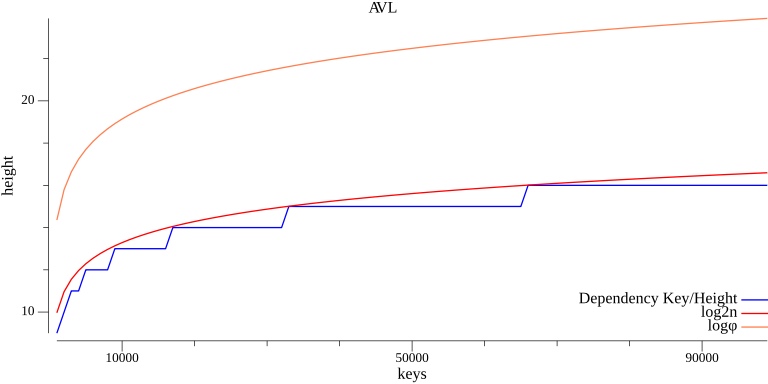
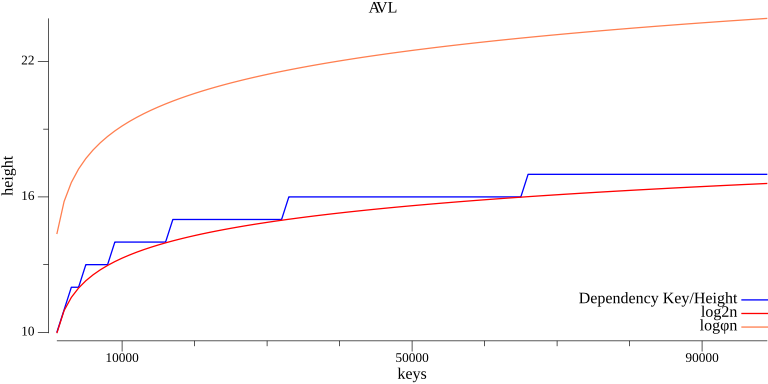
fix charts 1

diff --git a/internal/plotting/RBT.html b/internal/plotting/RBT.html
@@ -9,13 +9,13 @@
 </head>
 
 <body><div class="container">
-    <div class="item" id="nFtWLBWkxQDO" style="width:900px;height:500px;"></div>
+    <div class="item" id="lvcCXZLscFii" style="width:900px;height:500px;"></div>
 </div><script type="text/javascript">
     "use strict";
-    let goecharts_nFtWLBWkxQDO = echarts.init(document.getElementById('nFtWLBWkxQDO'), "wonderland", { renderer: "canvas" });
-    let option_nFtWLBWkxQDO = {"legend":{},"series":[{"name":"Dependency Height/Keys","type":"line","smooth":false,"connectNulls":false,"data":[{"name":"heights","value":16},{"name":"heights","value":18},{"name":"heights","value":19},{"name":"heights","value":20},{"name":"heights","value":21},{"name":"heights","value":21},{"name":"heights","value":22},{"name":"heights","value":22},{"name":"heights","value":23},{"name":"heights","value":23},{"name":"heights","value":23},{"name":"heights","value":23},{"name":"heights","value":24},{"name":"heights","value":24},{"name":"heights","value":24},{"name":"heights","value":24},{"name":"heights","value":25},{"name":"heights","value":25},{"name":"heights","value":25},{"name":"heights","value":25},{"name":"heights","value":25},{"name":"heights","value":25},{"name":"heights","value":25},{"name":"heights","value":25},{"name":"heights","value":26},{"name":"heights","value":26},{"name":"heights","value":26},{"name":"heights","value":26},{"name":"heights","value":26},{"name":"heights","value":26},{"name":"heights","value":26},{"name":"heights","value":26},{"name":"heights","value":27},{"name":"heights","value":27},{"name":"heights","value":27},{"name":"heights","value":27},{"name":"heights","value":27},{"name":"heights","value":27},{"name":"heights","value":27},{"name":"heights","value":27},{"name":"heights","value":27},{"name":"heights","value":27},{"name":"heights","value":27},{"name":"heights","value":27},{"name":"heights","value":27},{"name":"heights","value":27},{"name":"heights","value":27},{"name":"heights","value":27},{"name":"heights","value":27},{"name":"heights","value":28},{"name":"heights","value":28},{"name":"heights","value":28},{"name":"heights","value":28},{"name":"heights","value":28},{"name":"heights","value":28},{"name":"heights","value":28},{"name":"heights","value":28},{"name":"heights","value":28},{"name":"heights","value":28},{"name":"heights","value":28},{"name":"heights","value":28},{"name":"heights","value":28},{"name":"heights","value":28},{"name":"heights","value":28},{"name":"heights","value":28},{"name":"heights","value":29},{"name":"heights","value":29},{"name":"heights","value":29},{"name":"heights","value":29},{"name":"heights","value":29},{"name":"heights","value":29},{"name":"heights","value":29},{"name":"heights","value":29},{"name":"heights","value":29},{"name":"heights","value":29},{"name":"heights","value":29},{"name":"heights","value":29},{"name":"heights","value":29},{"name":"heights","value":29},{"name":"heights","value":29},{"name":"heights","value":29},{"name":"heights","value":29},{"name":"heights","value":29},{"name":"heights","value":29},{"name":"heights","value":29},{"name":"heights","value":29},{"name":"heights","value":29},{"name":"heights","value":29},{"name":"heights","value":29},{"name":"heights","value":29},{"name":"heights","value":29},{"name":"heights","value":29},{"name":"heights","value":29},{"name":"heights","value":29},{"name":"heights","value":29},{"name":"heights","value":29},{"name":"heights","value":29},{"name":"heights","value":29},{"name":"heights","value":30}]}],"title":{"text":"RBT","subtext":"This is fun to use!"},"toolbox":{},"tooltip":{},"xAxis":[{"data":["1000","2000","3000","4000","5000","6000","7000","8000","9000","10000","11000","12000","13000","14000","15000","16000","17000","18000","19000","20000","21000","22000","23000","24000","25000","26000","27000","28000","29000","30000","31000","32000","33000","34000","35000","36000","37000","38000","39000","40000","41000","42000","43000","44000","45000","46000","47000","48000","49000","50000","51000","52000","53000","54000","55000","56000","57000","58000","59000","60000","61000","62000","63000","64000","65000","66000","67000","68000","69000","70000","71000","72000","73000","74000","75000","76000","77000","78000","79000","80000","81000","82000","83000","84000","85000","86000","87000","88000","89000","90000","91000","92000","93000","94000","95000","96000","97000","98000","99000"]}],"yAxis":[{}]}
+    let goecharts_lvcCXZLscFii = echarts.init(document.getElementById('lvcCXZLscFii'), "wonderland", { renderer: "canvas" });
+    let option_lvcCXZLscFii = {"legend":{},"series":[{"name":"Dependency Height/Keys","type":"line","smooth":false,"connectNulls":false,"data":[{"name":"heights","value":17},{"name":"heights","value":19},{"name":"heights","value":20},{"name":"heights","value":21},{"name":"heights","value":22},{"name":"heights","value":22},{"name":"heights","value":23},{"name":"heights","value":23},{"name":"heights","value":24},{"name":"heights","value":24},{"name":"heights","value":24},{"name":"heights","value":24},{"name":"heights","value":25},{"name":"heights","value":25},{"name":"heights","value":25},{"name":"heights","value":25},{"name":"heights","value":26},{"name":"heights","value":26},{"name":"heights","value":26},{"name":"heights","value":26},{"name":"heights","value":26},{"name":"heights","value":26},{"name":"heights","value":26},{"name":"heights","value":26},{"name":"heights","value":27},{"name":"heights","value":27},{"name":"heights","value":27},{"name":"heights","value":27},{"name":"heights","value":27},{"name":"heights","value":27},{"name":"heights","value":27},{"name":"heights","value":27},{"name":"heights","value":28},{"name":"heights","value":28},{"name":"heights","value":28},{"name":"heights","value":28},{"name":"heights","value":28},{"name":"heights","value":28},{"name":"heights","value":28},{"name":"heights","value":28},{"name":"heights","value":28},{"name":"heights","value":28},{"name":"heights","value":28},{"name":"heights","value":28},{"name":"heights","value":28},{"name":"heights","value":28},{"name":"heights","value":28},{"name":"heights","value":28},{"name":"heights","value":28},{"name":"heights","value":29},{"name":"heights","value":29},{"name":"heights","value":29},{"name":"heights","value":29},{"name":"heights","value":29},{"name":"heights","value":29},{"name":"heights","value":29},{"name":"heights","value":29},{"name":"heights","value":29},{"name":"heights","value":29},{"name":"heights","value":29},{"name":"heights","value":29},{"name":"heights","value":29},{"name":"heights","value":29},{"name":"heights","value":29},{"name":"heights","value":29},{"name":"heights","value":30},{"name":"heights","value":30},{"name":"heights","value":30},{"name":"heights","value":30},{"name":"heights","value":30},{"name":"heights","value":30},{"name":"heights","value":30},{"name":"heights","value":30},{"name":"heights","value":30},{"name":"heights","value":30},{"name":"heights","value":30},{"name":"heights","value":30},{"name":"heights","value":30},{"name":"heights","value":30},{"name":"heights","value":30},{"name":"heights","value":30},{"name":"heights","value":30},{"name":"heights","value":30},{"name":"heights","value":30},{"name":"heights","value":30},{"name":"heights","value":30},{"name":"heights","value":30},{"name":"heights","value":30},{"name":"heights","value":30},{"name":"heights","value":30},{"name":"heights","value":30},{"name":"heights","value":30},{"name":"heights","value":30},{"name":"heights","value":30},{"name":"heights","value":30},{"name":"heights","value":30},{"name":"heights","value":30},{"name":"heights","value":30},{"name":"heights","value":31}]}],"title":{"text":"RBT","subtext":"This is fun to use!"},"toolbox":{},"tooltip":{},"xAxis":[{"data":["1000","2000","3000","4000","5000","6000","7000","8000","9000","10000","11000","12000","13000","14000","15000","16000","17000","18000","19000","20000","21000","22000","23000","24000","25000","26000","27000","28000","29000","30000","31000","32000","33000","34000","35000","36000","37000","38000","39000","40000","41000","42000","43000","44000","45000","46000","47000","48000","49000","50000","51000","52000","53000","54000","55000","56000","57000","58000","59000","60000","61000","62000","63000","64000","65000","66000","67000","68000","69000","70000","71000","72000","73000","74000","75000","76000","77000","78000","79000","80000","81000","82000","83000","84000","85000","86000","87000","88000","89000","90000","91000","92000","93000","94000","95000","96000","97000","98000","99000"]}],"yAxis":[{}]}
 
-    goecharts_nFtWLBWkxQDO.setOption(option_nFtWLBWkxQDO);
+    goecharts_lvcCXZLscFii.setOption(option_lvcCXZLscFii);
 </script>
 <style>
     .container {margin-top:30px; display: flex;justify-content: center;align-items: center;}

diff --git a/internal/plotting/AVL.html b/internal/plotting/AVL.html
@@ -9,13 +9,13 @@
 </head>
 
 <body><div class="container">
-    <div class="item" id="WJgWJPrTXTlU" style="width:900px;height:500px;"></div>
+    <div class="item" id="talKRniaxHGT" style="width:900px;height:500px;"></div>
 </div><script type="text/javascript">
     "use strict";
-    let goecharts_WJgWJPrTXTlU = echarts.init(document.getElementById('WJgWJPrTXTlU'), "wonderland", { renderer: "canvas" });
-    let option_WJgWJPrTXTlU = {"legend":{},"series":[{"name":"Dependency Height/Keys","type":"line","smooth":false,"connectNulls":false,"data":[{"name":"heights","value":9},{"name":"heights","value":10},{"name":"heights","value":11},{"name":"heights","value":11},{"name":"heights","value":12},{"name":"heights","value":12},{"name":"heights","value":12},{"name":"heights","value":12},{"name":"heights","value":13},{"name":"heights","value":13},{"name":"heights","value":13},{"name":"heights","value":13},{"name":"heights","value":13},{"name":"heights","value":13},{"name":"heights","value":13},{"name":"heights","value":13},{"name":"heights","value":14},{"name":"heights","value":14},{"name":"heights","value":14},{"name":"heights","value":14},{"name":"heights","value":14},{"name":"heights","value":14},{"name":"heights","value":14},{"name":"heights","value":14},{"name":"heights","value":14},{"name":"heights","value":14},{"name":"heights","value":14},{"name":"heights","value":14},{"name":"heights","value":14},{"name":"heights","value":14},{"name":"heights","value":14},{"name":"heights","value":14},{"name":"heights","value":15},{"name":"heights","value":15},{"name":"heights","value":15},{"name":"heights","value":15},{"name":"heights","value":15},{"name":"heights","value":15},{"name":"heights","value":15},{"name":"heights","value":15},{"name":"heights","value":15},{"name":"heights","value":15},{"name":"heights","value":15},{"name":"heights","value":15},{"name":"heights","value":15},{"name":"heights","value":15},{"name":"heights","value":15},{"name":"heights","value":15},{"name":"heights","value":15},{"name":"heights","value":15},{"name":"heights","value":15},{"name":"heights","value":15},{"name":"heights","value":15},{"name":"heights","value":15},{"name":"heights","value":15},{"name":"heights","value":15},{"name":"heights","value":15},{"name":"heights","value":15},{"name":"heights","value":15},{"name":"heights","value":15},{"name":"heights","value":15},{"name":"heights","value":15},{"name":"heights","value":15},{"name":"heights","value":15},{"name":"heights","value":15},{"name":"heights","value":16},{"name":"heights","value":16},{"name":"heights","value":16},{"name":"heights","value":16},{"name":"heights","value":16},{"name":"heights","value":16},{"name":"heights","value":16},{"name":"heights","value":16},{"name":"heights","value":16},{"name":"heights","value":16},{"name":"heights","value":16},{"name":"heights","value":16},{"name":"heights","value":16},{"name":"heights","value":16},{"name":"heights","value":16},{"name":"heights","value":16},{"name":"heights","value":16},{"name":"heights","value":16},{"name":"heights","value":16},{"name":"heights","value":16},{"name":"heights","value":16},{"name":"heights","value":16},{"name":"heights","value":16},{"name":"heights","value":16},{"name":"heights","value":16},{"name":"heights","value":16},{"name":"heights","value":16},{"name":"heights","value":16},{"name":"heights","value":16},{"name":"heights","value":16},{"name":"heights","value":16},{"name":"heights","value":16},{"name":"heights","value":16},{"name":"heights","value":16}]}],"title":{"text":"AVL","subtext":"This is fun to use!"},"toolbox":{},"tooltip":{},"xAxis":[{"data":["1000","2000","3000","4000","5000","6000","7000","8000","9000","10000","11000","12000","13000","14000","15000","16000","17000","18000","19000","20000","21000","22000","23000","24000","25000","26000","27000","28000","29000","30000","31000","32000","33000","34000","35000","36000","37000","38000","39000","40000","41000","42000","43000","44000","45000","46000","47000","48000","49000","50000","51000","52000","53000","54000","55000","56000","57000","58000","59000","60000","61000","62000","63000","64000","65000","66000","67000","68000","69000","70000","71000","72000","73000","74000","75000","76000","77000","78000","79000","80000","81000","82000","83000","84000","85000","86000","87000","88000","89000","90000","91000","92000","93000","94000","95000","96000","97000","98000","99000"]}],"yAxis":[{}]}
+    let goecharts_talKRniaxHGT = echarts.init(document.getElementById('talKRniaxHGT'), "wonderland", { renderer: "canvas" });
+    let option_talKRniaxHGT = {"legend":{},"series":[{"name":"Dependency Height/Keys","type":"line","smooth":false,"connectNulls":false,"data":[{"name":"heights","value":10},{"name":"heights","value":11},{"name":"heights","value":12},{"name":"heights","value":12},{"name":"heights","value":13},{"name":"heights","value":13},{"name":"heights","value":13},{"name":"heights","value":13},{"name":"heights","value":14},{"name":"heights","value":14},{"name":"heights","value":14},{"name":"heights","value":14},{"name":"heights","value":14},{"name":"heights","value":14},{"name":"heights","value":14},{"name":"heights","value":14},{"name":"heights","value":15},{"name":"heights","value":15},{"name":"heights","value":15},{"name":"heights","value":15},{"name":"heights","value":15},{"name":"heights","value":15},{"name":"heights","value":15},{"name":"heights","value":15},{"name":"heights","value":15},{"name":"heights","value":15},{"name":"heights","value":15},{"name":"heights","value":15},{"name":"heights","value":15},{"name":"heights","value":15},{"name":"heights","value":15},{"name":"heights","value":15},{"name":"heights","value":16},{"name":"heights","value":16},{"name":"heights","value":16},{"name":"heights","value":16},{"name":"heights","value":16},{"name":"heights","value":16},{"name":"heights","value":16},{"name":"heights","value":16},{"name":"heights","value":16},{"name":"heights","value":16},{"name":"heights","value":16},{"name":"heights","value":16},{"name":"heights","value":16},{"name":"heights","value":16},{"name":"heights","value":16},{"name":"heights","value":16},{"name":"heights","value":16},{"name":"heights","value":16},{"name":"heights","value":16},{"name":"heights","value":16},{"name":"heights","value":16},{"name":"heights","value":16},{"name":"heights","value":16},{"name":"heights","value":16},{"name":"heights","value":16},{"name":"heights","value":16},{"name":"heights","value":16},{"name":"heights","value":16},{"name":"heights","value":16},{"name":"heights","value":16},{"name":"heights","value":16},{"name":"heights","value":16},{"name":"heights","value":16},{"name":"heights","value":17},{"name":"heights","value":17},{"name":"heights","value":17},{"name":"heights","value":17},{"name":"heights","value":17},{"name":"heights","value":17},{"name":"heights","value":17},{"name":"heights","value":17},{"name":"heights","value":17},{"name":"heights","value":17},{"name":"heights","value":17},{"name":"heights","value":17},{"name":"heights","value":17},{"name":"heights","value":17},{"name":"heights","value":17},{"name":"heights","value":17},{"name":"heights","value":17},{"name":"heights","value":17},{"name":"heights","value":17},{"name":"heights","value":17},{"name":"heights","value":17},{"name":"heights","value":17},{"name":"heights","value":17},{"name":"heights","value":17},{"name":"heights","value":17},{"name":"heights","value":17},{"name":"heights","value":17},{"name":"heights","value":17},{"name":"heights","value":17},{"name":"heights","value":17},{"name":"heights","value":17},{"name":"heights","value":17},{"name":"heights","value":17},{"name":"heights","value":17}]}],"title":{"text":"AVL","subtext":"This is fun to use!"},"toolbox":{},"tooltip":{},"xAxis":[{"data":["1000","2000","3000","4000","5000","6000","7000","8000","9000","10000","11000","12000","13000","14000","15000","16000","17000","18000","19000","20000","21000","22000","23000","24000","25000","26000","27000","28000","29000","30000","31000","32000","33000","34000","35000","36000","37000","38000","39000","40000","41000","42000","43000","44000","45000","46000","47000","48000","49000","50000","51000","52000","53000","54000","55000","56000","57000","58000","59000","60000","61000","62000","63000","64000","65000","66000","67000","68000","69000","70000","71000","72000","73000","74000","75000","76000","77000","78000","79000","80000","81000","82000","83000","84000","85000","86000","87000","88000","89000","90000","91000","92000","93000","94000","95000","96000","97000","98000","99000"]}],"yAxis":[{}]}
 
-    goecharts_WJgWJPrTXTlU.setOption(option_WJgWJPrTXTlU);
+    goecharts_talKRniaxHGT.setOption(option_talKRniaxHGT);
 </script>
 <style>
     .container {margin-top:30px; display: flex;justify-content: center;align-items: center;}

diff --git a/internal/plotting/BST.html b/internal/plotting/BST.html
@@ -13,7 +13,7 @@
 </div><script type="text/javascript">
     "use strict";
     let goecharts_GCUndGBOXIcL = echarts.init(document.getElementById('GCUndGBOXIcL'), "wonderland", { renderer: "canvas" });
-    let option_GCUndGBOXIcL = {"legend":{},"series":[{"name":"Dependency Height/Keys","type":"line","smooth":false,"connectNulls":false,"data":[{"name":"heights","value":20},{"name":"heights","value":23},{"name":"heights","value":24},{"name":"heights","value":24},{"name":"heights","value":24},{"name":"heights","value":26},{"name":"heights","value":26},{"name":"heights","value":26},{"name":"heights","value":26},{"name":"heights","value":26},{"name":"heights","value":26},{"name":"heights","value":26},{"name":"heights","value":26},{"name":"heights","value":27},{"name":"heights","value":27},{"name":"heights","value":27},{"name":"heights","value":27},{"name":"heights","value":27},{"name":"heights","value":27},{"name":"heights","value":27},{"name":"heights","value":27},{"name":"heights","value":28},{"name":"heights","value":28},{"name":"heights","value":28},{"name":"heights","value":28},{"name":"heights","value":28},{"name":"heights","value":28},{"name":"heights","value":28},{"name":"heights","value":29},{"name":"heights","value":30},{"name":"heights","value":30},{"name":"heights","value":30},{"name":"heights","value":30},{"name":"heights","value":30},{"name":"heights","value":30},{"name":"heights","value":30},{"name":"heights","value":30},{"name":"heights","value":30},{"name":"heights","value":30},{"name":"heights","value":30},{"name":"heights","value":30},{"name":"heights","value":30},{"name":"heights","value":30},{"name":"heights","value":30},{"name":"heights","value":30},{"name":"heights","value":30},{"name":"heights","value":30},{"name":"heights","value":30},{"name":"heights","value":30},{"name":"heights","value":30},{"name":"heights","value":30},{"name":"heights","value":30},{"name":"heights","value":30},{"name":"heights","value":30},{"name":"heights","value":30},{"name":"heights","value":30},{"name":"heights","value":30},{"name":"heights","value":30},{"name":"heights","value":30},{"name":"heights","value":30},{"name":"heights","value":30},{"name":"heights","value":30},{"name":"heights","value":30},{"name":"heights","value":30},{"name":"heights","value":30},{"name":"heights","value":30},{"name":"heights","value":30},{"name":"heights","value":30},{"name":"heights","value":30},{"name":"heights","value":30},{"name":"heights","value":30},{"name":"heights","value":30},{"name":"heights","value":30},{"name":"heights","value":30},{"name":"heights","value":30},{"name":"heights","value":30},{"name":"heights","value":30},{"name":"heights","value":30},{"name":"heights","value":30},{"name":"heights","value":30},{"name":"heights","value":30},{"name":"heights","value":30},{"name":"heights","value":30},{"name":"heights","value":30},{"name":"heights","value":30},{"name":"heights","value":30},{"name":"heights","value":30},{"name":"heights","value":30},{"name":"heights","value":30},{"name":"heights","value":30},{"name":"heights","value":30},{"name":"heights","value":30},{"name":"heights","value":30},{"name":"heights","value":30},{"name":"heights","value":30},{"name":"heights","value":30},{"name":"heights","value":30},{"name":"heights","value":30},{"name":"heights","value":30}]}],"title":{"text":"BST","subtext":"This is fun to use!"},"toolbox":{},"tooltip":{},"xAxis":[{"data":["1000","2000","3000","4000","5000","6000","7000","8000","9000","10000","11000","12000","13000","14000","15000","16000","17000","18000","19000","20000","21000","22000","23000","24000","25000","26000","27000","28000","29000","30000","31000","32000","33000","34000","35000","36000","37000","38000","39000","40000","41000","42000","43000","44000","45000","46000","47000","48000","49000","50000","51000","52000","53000","54000","55000","56000","57000","58000","59000","60000","61000","62000","63000","64000","65000","66000","67000","68000","69000","70000","71000","72000","73000","74000","75000","76000","77000","78000","79000","80000","81000","82000","83000","84000","85000","86000","87000","88000","89000","90000","91000","92000","93000","94000","95000","96000","97000","98000","99000"]}],"yAxis":[{}]}
+    let option_GCUndGBOXIcL = {"legend":{},"series":[{"name":"Dependency Height/Keys","type":"line","smooth":false,"connectNulls":false,"data":[{"name":"heights","value":21},{"name":"heights","value":24},{"name":"heights","value":25},{"name":"heights","value":25},{"name":"heights","value":25},{"name":"heights","value":27},{"name":"heights","value":27},{"name":"heights","value":27},{"name":"heights","value":27},{"name":"heights","value":27},{"name":"heights","value":27},{"name":"heights","value":27},{"name":"heights","value":27},{"name":"heights","value":28},{"name":"heights","value":28},{"name":"heights","value":28},{"name":"heights","value":28},{"name":"heights","value":28},{"name":"heights","value":28},{"name":"heights","value":28},{"name":"heights","value":28},{"name":"heights","value":29},{"name":"heights","value":29},{"name":"heights","value":29},{"name":"heights","value":29},{"name":"heights","value":29},{"name":"heights","value":29},{"name":"heights","value":29},{"name":"heights","value":30},{"name":"heights","value":31},{"name":"heights","value":31},{"name":"heights","value":31},{"name":"heights","value":31},{"name":"heights","value":31},{"name":"heights","value":31},{"name":"heights","value":31},{"name":"heights","value":31},{"name":"heights","value":31},{"name":"heights","value":31},{"name":"heights","value":31},{"name":"heights","value":31},{"name":"heights","value":31},{"name":"heights","value":31},{"name":"heights","value":31},{"name":"heights","value":31},{"name":"heights","value":31},{"name":"heights","value":31},{"name":"heights","value":31},{"name":"heights","value":31},{"name":"heights","value":31},{"name":"heights","value":31},{"name":"heights","value":31},{"name":"heights","value":31},{"name":"heights","value":31},{"name":"heights","value":31},{"name":"heights","value":31},{"name":"heights","value":31},{"name":"heights","value":31},{"name":"heights","value":31},{"name":"heights","value":31},{"name":"heights","value":31},{"name":"heights","value":31},{"name":"heights","value":31},{"name":"heights","value":31},{"name":"heights","value":31},{"name":"heights","value":31},{"name":"heights","value":31},{"name":"heights","value":31},{"name":"heights","value":31},{"name":"heights","value":31},{"name":"heights","value":31},{"name":"heights","value":31},{"name":"heights","value":31},{"name":"heights","value":31},{"name":"heights","value":31},{"name":"heights","value":31},{"name":"heights","value":31},{"name":"heights","value":31},{"name":"heights","value":31},{"name":"heights","value":31},{"name":"heights","value":31},{"name":"heights","value":31},{"name":"heights","value":31},{"name":"heights","value":31},{"name":"heights","value":31},{"name":"heights","value":31},{"name":"heights","value":31},{"name":"heights","value":31},{"name":"heights","value":31},{"name":"heights","value":31},{"name":"heights","value":31},{"name":"heights","value":31},{"name":"heights","value":31},{"name":"heights","value":31},{"name":"heights","value":31},{"name":"heights","value":31},{"name":"heights","value":31},{"name":"heights","value":31},{"name":"heights","value":31}]}],"title":{"text":"BST","subtext":"This is fun to use!"},"toolbox":{},"tooltip":{},"xAxis":[{"data":["1000","2000","3000","4000","5000","6000","7000","8000","9000","10000","11000","12000","13000","14000","15000","16000","17000","18000","19000","20000","21000","22000","23000","24000","25000","26000","27000","28000","29000","30000","31000","32000","33000","34000","35000","36000","37000","38000","39000","40000","41000","42000","43000","44000","45000","46000","47000","48000","49000","50000","51000","52000","53000","54000","55000","56000","57000","58000","59000","60000","61000","62000","63000","64000","65000","66000","67000","68000","69000","70000","71000","72000","73000","74000","75000","76000","77000","78000","79000","80000","81000","82000","83000","84000","85000","86000","87000","88000","89000","90000","91000","92000","93000","94000","95000","96000","97000","98000","99000"]}],"yAxis":[{}]}
 
     goecharts_GCUndGBOXIcL.setOption(option_GCUndGBOXIcL);
 </script>

diff --git a/internal/plotting/makePlot.go b/internal/plotting/makePlot.go
@@ -23,23 +23,35 @@ func CreateLineChartByPlotter(arrX []float64, arrY []int, typeOfTree string) {
 	plt.X.Label.Text = "keys"
 	plt.Y.Label.Text = "height"
 
-	//
+	// height
 	points := make(plotter.XYs, len(arrX))
 	for i := range arrX {
 		points[i].X = arrX[i]
 		points[i].Y = float64(arrY[i])
 	}
-
+	// log2n for avl
 	log2nPoints := make(plotter.XYs, len(arrX))
 	for i := range arrX {
 		log2nPoints[i].X = arrX[i]
-		log2nPoints[i].Y = nLogn(arrX[i])
+		log2nPoints[i].Y = Log2n(arrX[i])
 	}
-
+	// logpPiN either for avl
 	logHIPoints := make(plotter.XYs, len(arrX))
 	for i := range arrX {
 		logHIPoints[i].X = arrX[i]
 		logHIPoints[i].Y = LogHI(arrX[i])
+	}
+	// (log2n + 1) * 2 for rbt
+	log2n1Points := make(plotter.XYs, len(arrX))
+	for i := range arrX {
+		log2n1Points[i].X = arrX[i]
+		log2n1Points[i].Y = Log2n_1(arrX[i])
+	}
+	// log2n * k for BST
+	log2nKPoints := make(plotter.XYs, len(arrX))
+	for i := range arrX {
+		log2nKPoints[i].X = arrX[i]
+		log2nKPoints[i].Y = Log2nK(arrX[i])
 	}
 
 	Plot, err := plotter.NewLine(points)
@@ -57,15 +69,36 @@ func CreateLineChartByPlotter(arrX []float64, arrY []int, typeOfTree string) {
 		panic(err)
 	}
 
+	log2n1Plot, err := plotter.NewLine(log2n1Points)
+	if err != nil {
+		panic(err)
+	}
+
+	log2nKPlot, err := plotter.NewLine(log2nKPoints)
+	if err != nil {
+		panic(err)
+	}
+
 	Plot.LineStyle.Color = color.RGBA{R: 0, G: 0, B: 255, A: 255}
 	log2nPlot.LineStyle.Color = color.RGBA{R: 255, G: 0, B: 0, A: 255}
 	logHIPlot.LineStyle.Color = color.RGBA{R: 255, G: 127, B: 80, A: 255}
+	log2n1Plot.LineStyle.Color = color.RGBA{R: 255, G: 0, B: 0, A: 255}
+	log2nKPlot.LineStyle.Color = color.RGBA{R: 255, G: 0, B: 0, A: 255}
 
-	plt.Add(Plot, log2nPlot, logHIPlot)
-
-	plt.Legend.Add("Dependency Key/Height", Plot)
-	plt.Legend.Add("log2n", log2nPlot)
-	plt.Legend.Add("logφ", logHIPlot)
+	if typeOfTree == "AVL" {
+		plt.Add(Plot, log2nPlot, logHIPlot)
+		plt.Legend.Add("Dependency Key/Height", Plot)
+		plt.Legend.Add("log2n", log2nPlot)
+		plt.Legend.Add("logφn", logHIPlot)
+	} else if typeOfTree == " RBT" {
+		plt.Add(Plot, log2nPlot)
+		plt.Legend.Add("Dependency Key/Height", Plot)
+		plt.Legend.Add("(log2n + 1) * 2", log2n1Plot)
+	} else {
+		plt.Add(Plot, log2nKPlot)
+		plt.Legend.Add("Dependency Key/Height", Plot)
+		plt.Legend.Add("log2n * k", log2nKPlot)
+	}
 
 	//plt.X.Tick.Marker = plot.DefaultTicks{}
 	//plt.Y.Tick.Marker = plot.DefaultTicks{}
@@ -76,7 +109,13 @@ func CreateLineChartByPlotter(arrX []float64, arrY []int, typeOfTree string) {
 		panic(err)
 	}
 }
-func nLogn(x float64) float64 {
+func Log2n_1(x float64) float64 {
+	return math.Log2(x+1) * 2
+}
+func Log2nK(x float64) float64 {
+	return math.Log2(x) * 1.9
+}
+func Log2n(x float64) float64 {
 	return math.Log2(x)
 }
 func LogHI(x float64) float64 {

diff --git a/internal/measurements/calculations.go b/internal/measurements/calculations.go
@@ -42,7 +42,7 @@ func BSTcalculate(arr []int) int {
 	root = BinarySearchTree.CreateTree(root, arr)
 	//BinarySearchTree.PrintTree(root)
 	//return root.GetHeight() + 1
-	return BinarySearchTree.FindHeight(root)
+	return BinarySearchTree.FindHeight(root) + 1
 }
 
 func AVLcalculate(arr []int) int {
@@ -50,8 +50,8 @@ func AVLcalculate(arr []int) int {
 	root = AVL_Tree.CreateTree(root, arr)
 	//AVL_Tree.PrintTree2(root)
 	//return root.GetHeight() + 1
-	fmt.Println(root.GetHeight(), " ", AVL_Tree.FindHeight(root))
-	return AVL_Tree.FindHeight(root)
+	//fmt.Println(root.GetHeight(), " ", AVL_Tree.FindHeight(root))
+	return AVL_Tree.FindHeight(root) + 1
 }
 
 func RBTcalculate(arr []int) int {
@@ -60,7 +60,7 @@ func RBTcalculate(arr []int) int {
 	//AVL_Tree.PrintTree2(root)
 	//return root.GetHeight() + 1
 	fmt.Println(Red_Black_Tree.FindHeight(tree.Root))
-	return Red_Black_Tree.FindHeight(tree.Root)
+	return Red_Black_Tree.FindHeight(tree.Root) + 1
 
 	//TODO:
 }

diff --git a/cmd/main.go b/cmd/main.go
@@ -11,9 +11,10 @@ func main() {
 	////arr := pkg.RandArray(100, 12)
 	////fmt.Println(arr)
 	//Red_Black_Tree.Test(arr)
+	//AVL_Tree.Test(arr)
 
 	//trees := []string{"BST", "AVL", "RBT"}
-	trees := []string{"RBT"}
+	trees := []string{"BST"}
 
 	for _, tree := range trees {
 		arrX, arrY := measurements.Calculate(tree, 12)

diff --git a/internal/tree/AVL-Tree/AVL-Tree.go b/internal/tree/AVL-Tree/AVL-Tree.go
@@ -215,3 +215,15 @@ func FindHeight(node *Node) int {
 		return righth + 1
 	}
 }
+
+func Test(arr []int) {
+	var node *Node
+	//var root *Node
+	node = CreateTree(nil, arr)
+	//tree.Insert(3)
+
+	//tree.Delete(6)
+	PrintTree2(node)
+	InorderTraversal(node)
+	fmt.Println(FindHeight(node))
+}
